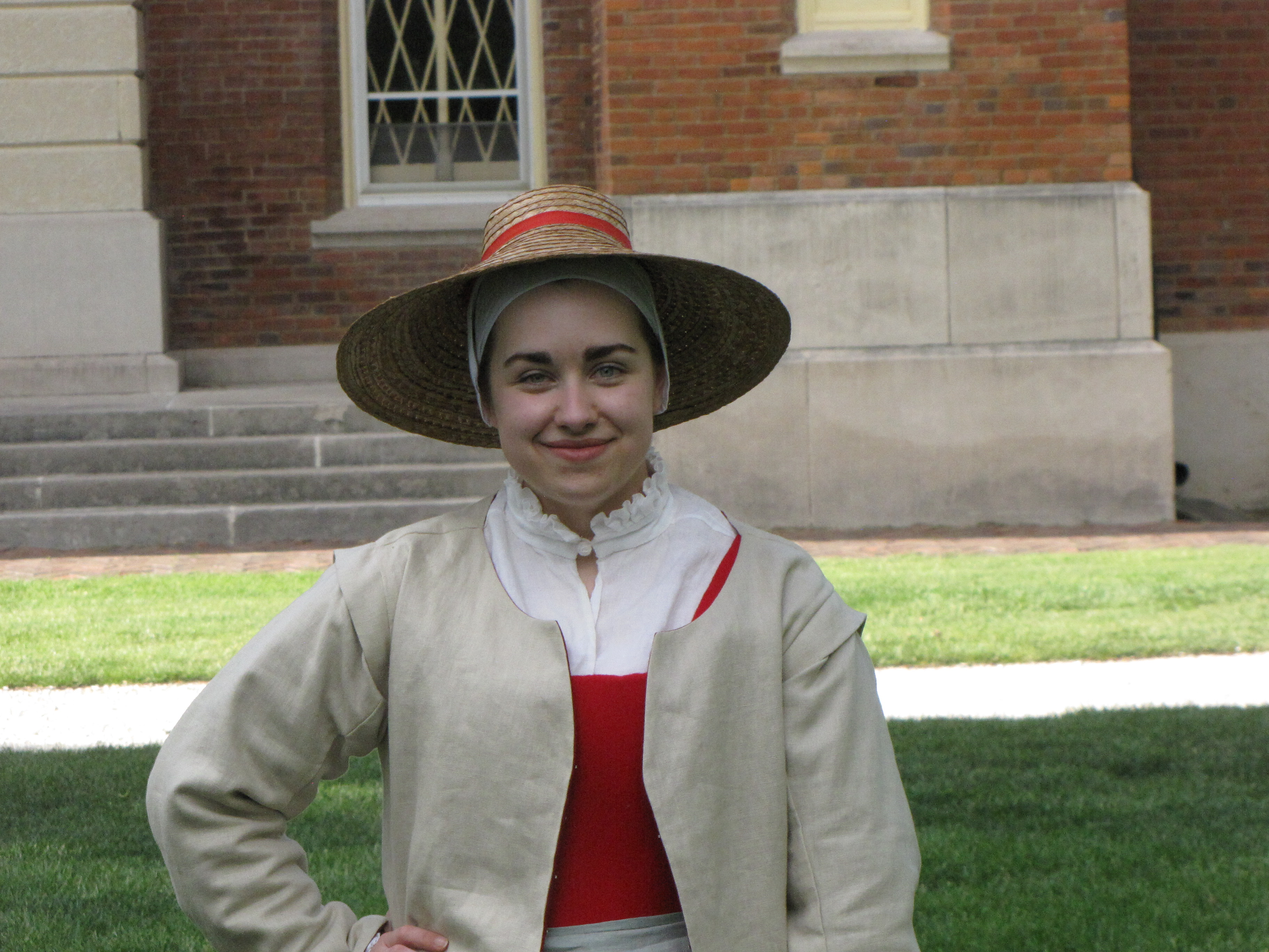
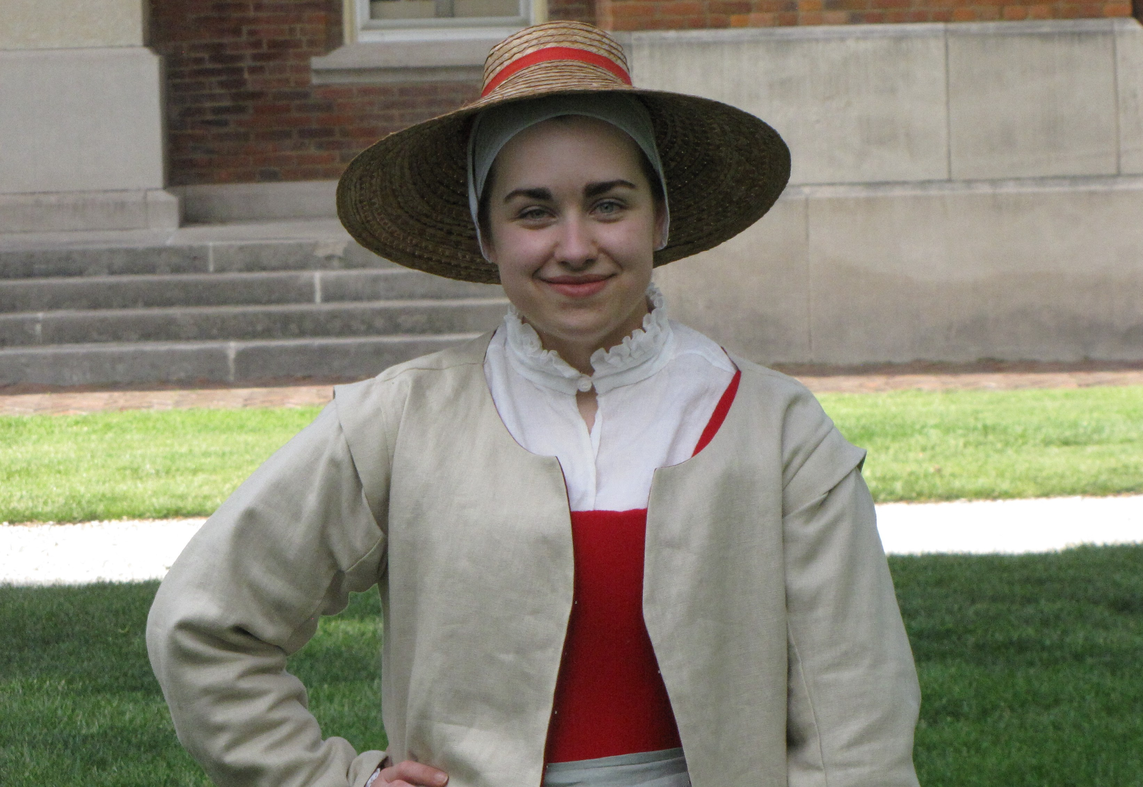
Adjust teaser, redo author-profile changes from before

diff --git a/_includes/author-profile.html b/_includes/author-profile.html
@@ -116,16 +116,16 @@
         <li><a href="{{ author.etsy }}"><i class="fab fa-etsy"></i> Etsy</a></li>
       {% endif %}
 	  {% if author.ravelry %}
-        <li><a href="{{ author.ravelry }}"><i class="fab fa-ravelry"></i></i> Ravelry</a></li>
+        <li><a href="{{ author.ravelry }}"><i class="fab fa-ravelry"></i> Ravelry</a></li>
       {% endif %}
 	  {% if author.kofi %}
-        <li><a href="{{ author.kofi }}"><i class="fas fa-coffee"></i></i></i> Ko-fi</a></li>
+        <li><a href="{{ author.kofi }}"><i class="fas fa-coffee"></i> Ko-fi</a></li>
       {% endif %}
 	  {% if author.pinterest %}
         <li><a href="https://www.pinterest.com/{{ author.pinterest }}"><i class="fab fa-fw fa-pinterest" aria-hidden="true"></i> Pinterest</a></li>
       {% endif %}
 	  {% if author.blogger %}
-        <li><a href="{{ author.blogger }}"><i class="fab fa-blogger"></i></i> Blogger</a></li>
+        <li><a href="{{ author.blogger }}"><i class="fab fa-blogger"></i> Blogger</a></li>
       {% endif %}
 	  {% if author.youtube %}
         <li><a href="{{ author.youtube }}"><i class="fab fa-fw fa-youtube" aria-hidden="true"></i> YouTube</a></li>

diff --git a/_costuming/red-kirtle.md b/_costuming/red-kirtle.md
@@ -27,7 +27,7 @@ gallery:
     alt: "Fashion plate for the outfit"
 ---
 
-I made this working-class outfit as part of an independent study in 2016 at the end of my time at Knox College, to bookend the earlier project. I conducted extensive research on the dress of English working-class from the 1560s-1580s, and constructed pieces from the skin out with materials and techniques that were as historically accurate as I could afford.  The outfit included a smock, kirtle, apron, jacket, coif, and stockings. I am also wearing a purchases hat and shoes.
+I made this working-class outfit as part of an independent study in 2016 at the end of my time at Knox College, to bookend the earlier project. I conducted extensive research on the dress of English working-class from the 1560s-1580s, and constructed pieces from the skin out with materials and techniques that were as historically accurate as I could afford.  The outfit included a smock, kirtle, sleeves, apron, jacket, forehead cloth, coif, and stockings. I am also wearing a purchased hat and shoes.
 
 {% include gallery caption="Images 1-5 by Peter Bailley, 6 and teaser by Kay Ryan" %}
 
